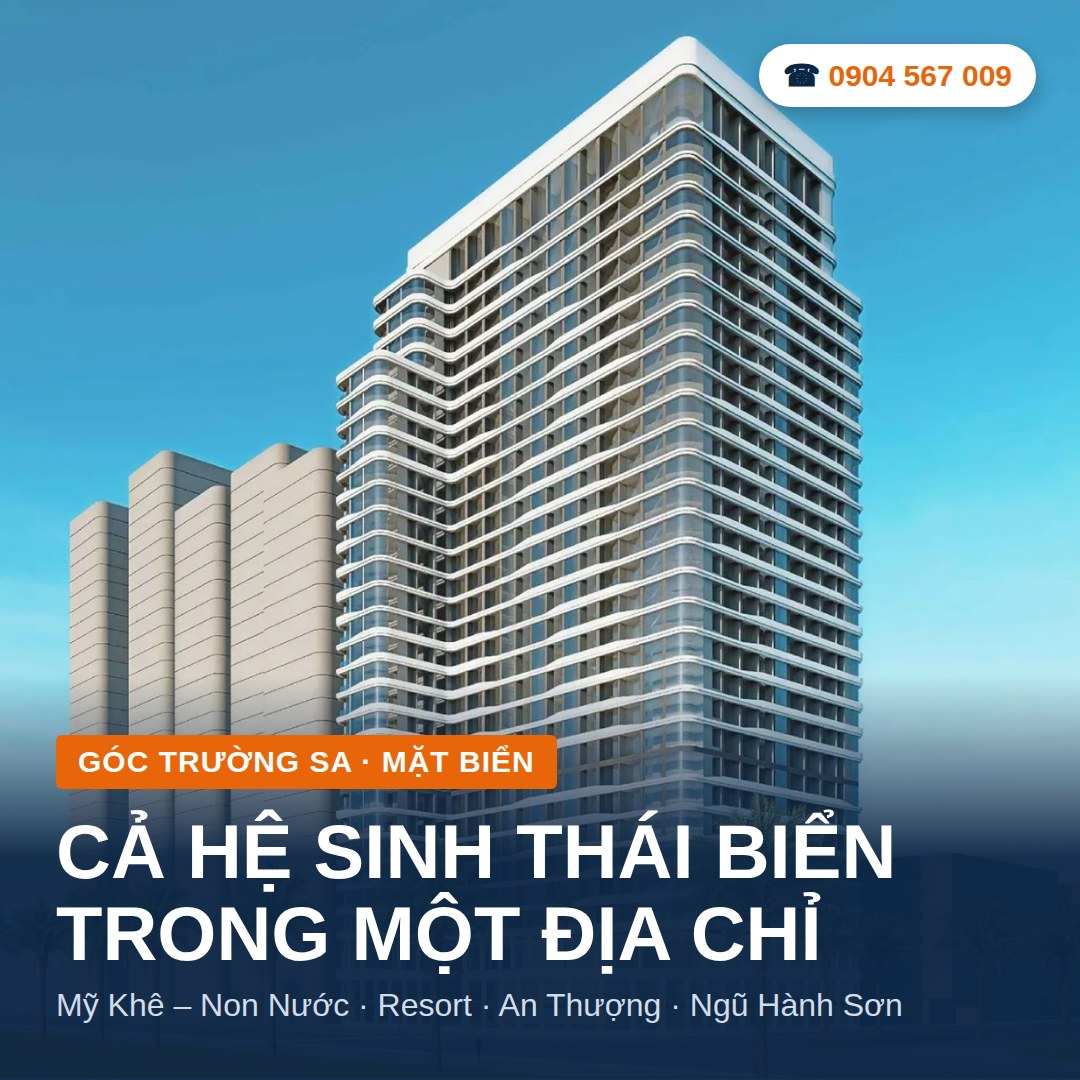
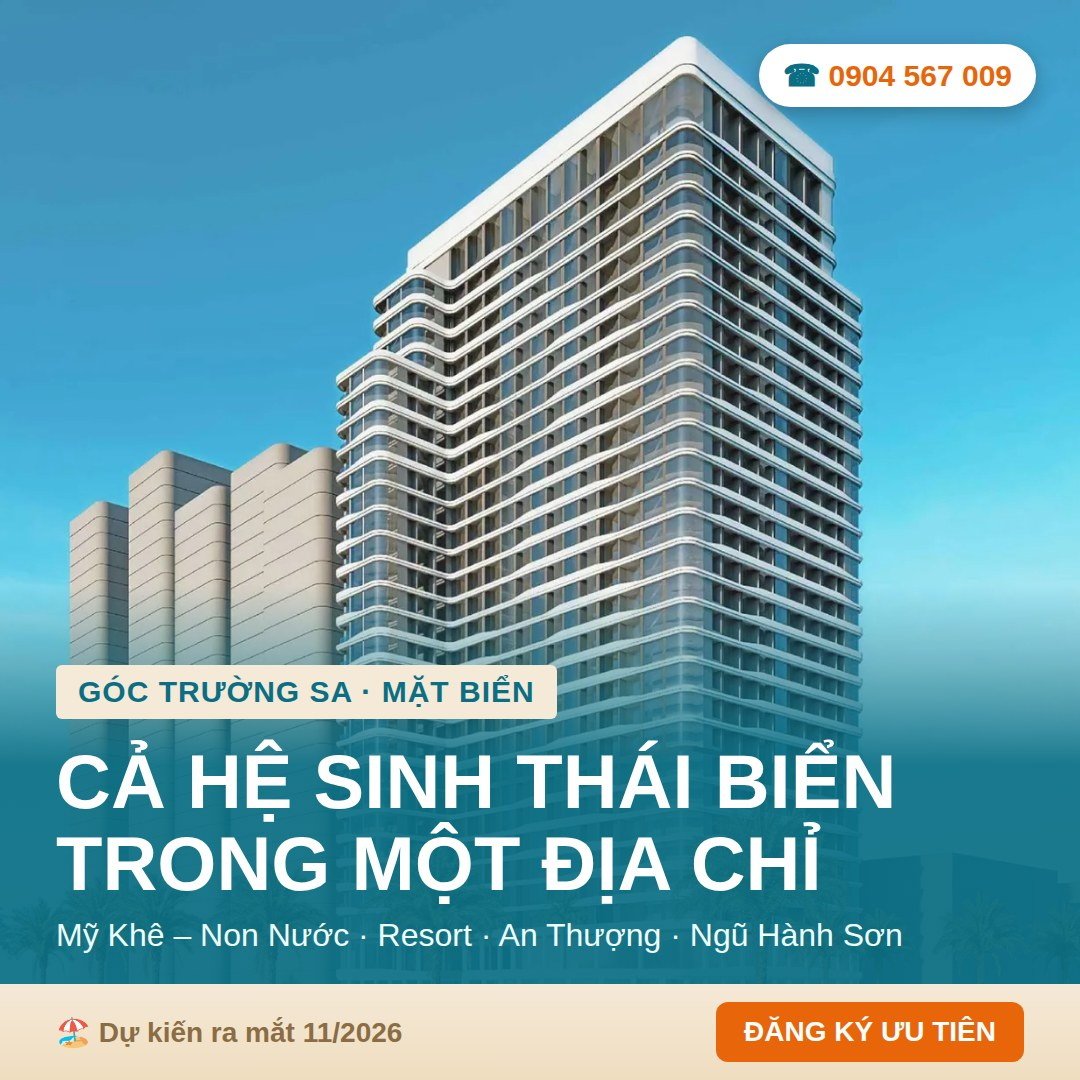
Apply sea-and-sand palette to Hai Minh ads page and creatives
Hero fades from turquoise sea to sand with the form on the sand band;
turquoise accents replace orange except on CTAs.

Claude-Session: https://claude.ai/code/session_01NC2CYpoTfJafqPT1uZGzKB

diff --git a/projects/hai-minh-da-nang/landing/ads-page.html b/projects/hai-minh-da-nang/landing/ads-page.html
@@ -9,38 +9,43 @@
 <link rel="canonical" href="https://www.xn--cnhdchvhiminh-prb1884ifsamh6h.com.vn/">
 <link href="https://fonts.googleapis.com/css2?family=Be+Vietnam+Pro:wght@400;600;700;800;900&display=swap" rel="stylesheet">
 <style>
-:root{--navy:#0B2545;--navy2:#13315C;--navy3:#071A33;--orange:#E8650A;--orange-d:#C9540A;--sun:#FFB547;--bg:#F4F6FA;--line:#DCE2EA;--text:#1F2D3D;--muted:#5B6878}
+:root{--navy:#0B2545;--navy2:#13315C;--navy3:#071A33;--orange:#E8650A;--orange-d:#C9540A;--sun:#FFB547;--sea:#1FB5C1;--sea-d:#0E8FA0;--sea-dd:#0A6F85;--sand:#F5E9D7;--sand2:#FBF6EE;--bg:#FBF6EE;--line:#DCE2EA;--text:#1F2D3D;--muted:#5B6878}
 *{box-sizing:border-box}
 body{margin:0;font-family:"Be Vietnam Pro",Arial,sans-serif;color:var(--text);background:#fff;font-size:16px;line-height:1.6}
 img{max-width:100%;height:auto;display:block}
 .wrap{max-width:1040px;margin:0 auto;padding:0 16px}
 h1,h2,h3{line-height:1.2;margin:0 0 12px}
 h2{font-size:34px;color:var(--navy);font-weight:900}
-h2 span{color:var(--orange)}
+h2 span{color:var(--sea-d)}
 p{margin:0 0 12px}
 .sec{padding:56px 0}
-.light{background:var(--bg)}
+.light{background:var(--sand2)}
 .center{text-align:center}
-.kicker{display:inline-block;font-size:13px;font-weight:800;letter-spacing:2px;color:var(--orange);text-transform:uppercase;margin-bottom:8px}
+.kicker{display:inline-block;font-size:13px;font-weight:800;letter-spacing:2px;color:var(--sea-d);text-transform:uppercase;margin-bottom:8px}
 .btn{display:inline-block;background:var(--orange);color:#fff;font-weight:900;font-size:18px;text-decoration:none;padding:17px 30px;border-radius:10px;border:0;cursor:pointer;font-family:inherit;box-shadow:0 8px 22px rgba(232,101,10,.38)}
 .btn:hover{background:var(--orange-d)}
 .btn-zalo{display:inline-block;background:#0068FF;color:#fff;font-weight:800;font-size:16px;text-decoration:none;padding:15px 24px;border-radius:10px}
 
 .hero-img img{width:100%}
 /* Urgency bar */
-.urgent{background:var(--orange);color:#fff;text-align:center;font-weight:800;font-size:15px;padding:10px 16px}
-.urgent a{color:#fff}
+.urgent{background:var(--navy);color:#fff;text-align:center;font-weight:800;font-size:15px;padding:10px 16px}
+.urgent a{color:var(--sun)}
 
 /* Hero */
-.hero{background:var(--navy);color:#fff;padding:36px 0 48px}
-.badge{display:inline-block;background:var(--sun);color:var(--navy);font-size:13px;font-weight:900;padding:6px 14px;border-radius:30px;letter-spacing:1px;margin-bottom:14px}
-.hero h1{font-size:60px;font-weight:900;color:#fff;letter-spacing:-1px;margin-bottom:10px}
-.hero h1 span{color:var(--orange)}
-.hero .sub{font-size:20px;color:#D3DCEA;max-width:820px}
+.hero{background:linear-gradient(180deg,#0A6F85 0%,#0E8FA0 22%,#1FB5C1 50%,#5CCFD5 72%,#BFEDEB 90%,#F5E9D7 100%);color:#fff;padding:40px 0 56px}
+.sea-pic{margin:26px 0 0;border-radius:18px;overflow:hidden;box-shadow:0 20px 44px rgba(10,111,133,.45);border:4px solid rgba(255,255,255,.85)}
+.sea-pic img{width:100%}
+.sand{background:linear-gradient(180deg,#F5E9D7 0%,#EFDDBF 100%);padding:6px 0 48px}
+.sand-note{text-align:center;color:#8A6D45;font-weight:700;font-size:14px;letter-spacing:1px;margin:0 0 14px}
+.badge{display:inline-block;background:rgba(255,255,255,.92);color:var(--sea-dd);font-size:13px;font-weight:900;padding:6px 14px;border-radius:30px;letter-spacing:1px;margin-bottom:14px}
+.hero h1{font-size:60px;font-weight:900;color:#fff;letter-spacing:-1px;margin-bottom:10px;text-shadow:0 2px 14px rgba(5,60,75,.35)}
+.hero h1 span{color:var(--sun)}
+.hero .sub{font-size:20px;color:#EFFFFF;max-width:820px}
 .checks{display:grid;grid-template-columns:1fr 1fr;gap:10px 24px;margin:20px 0 26px;max-width:820px}
 .checks div{font-size:16.5px;font-weight:600;color:#fff}
 .checks b{color:var(--sun)}
-.hero-form{background:#fff;border-radius:14px;padding:26px;color:var(--text);box-shadow:0 18px 40px rgba(0,0,0,.35);border-top:6px solid var(--orange)}
+.checks div{background:rgba(5,60,75,.28);border-radius:30px;padding:8px 16px}
+.hero-form{background:#fff;border-radius:14px;padding:26px;color:var(--text);box-shadow:0 18px 40px rgba(138,109,69,.28);border-top:6px solid var(--sea)}
 .hero-form h3{font-size:24px;color:var(--navy);font-weight:900;margin-bottom:4px}
 .hero-form .lead{color:var(--muted);margin-bottom:6px}
 .form-grid{display:grid;grid-template-columns:1fr 1fr 1fr;gap:6px 14px}
@@ -50,45 +55,45 @@ input,select{width:100%;font-family:inherit;font-size:16px;padding:14px;border:1
 .note{font-size:13px;color:var(--muted);margin-top:10px}
 
 /* Countdown */
-.cd-sec{background:var(--navy3);color:#fff;padding:34px 0;text-align:center}
+.cd-sec{background:linear-gradient(90deg,var(--sea-dd),var(--sea-d));color:#fff;padding:34px 0;text-align:center}
 .cd-sec h3{font-size:22px;color:#fff;font-weight:800}
-.cd-sec p{color:#AFC0D6;font-size:14px;margin:10px 0 0}
+.cd-sec p{color:#DFF7F7;font-size:14px;margin:10px 0 0}
 .dong-ho{display:flex;justify-content:center;gap:14px;margin-top:14px}
-.dong-ho .o{width:96px;background:var(--orange);border-radius:12px;padding:12px 0;text-align:center}
-.dong-ho .o span{display:block;font-size:40px;font-weight:900;color:#fff;line-height:1.1}
-.dong-ho .o i{display:block;font-style:normal;font-size:13px;font-weight:700;color:#FFE3CC}
+.dong-ho .o{width:96px;background:#fff;border-radius:12px;padding:12px 0;text-align:center}
+.dong-ho .o span{display:block;font-size:40px;font-weight:900;color:var(--navy);line-height:1.1}
+.dong-ho .o i{display:block;font-style:normal;font-size:13px;font-weight:700;color:var(--sea-d)}
 
 /* Value stack */
 .stack{display:grid;grid-template-columns:repeat(4,1fr);gap:16px;margin-top:22px}
-.gift{background:#fff;border:2px dashed var(--orange);border-radius:12px;padding:22px 16px;text-align:center}
+.gift{background:#fff;border:2px dashed var(--sea);border-radius:12px;padding:22px 16px;text-align:center}
 .gift .ic{font-size:38px;line-height:1}
 .gift b{display:block;font-size:17px;color:var(--navy);margin:10px 0 4px}
 .gift span{font-size:14px;color:var(--muted)}
 
 /* Ecosystem */
 .eco{display:grid;grid-template-columns:repeat(3,1fr);gap:16px;margin-top:22px}
-.tile{background:var(--navy);color:#C7D2E3;border-radius:14px;padding:24px}
+.tile{background:linear-gradient(160deg,var(--sea-d),var(--sea));color:#EFFFFF;border-radius:14px;padding:24px}
 .tile .ic{font-size:34px;line-height:1}
 .tile b{display:block;font-size:19px;color:#fff;margin:12px 0 6px}
 
 /* Day */
 .day{display:grid;grid-template-columns:repeat(4,1fr);gap:0;margin-top:22px;border-radius:14px;overflow:hidden}
 .day div{padding:22px 16px;text-align:center;color:#fff}
-.day div:nth-child(1){background:#F28C28}
-.day div:nth-child(2){background:#1B6CA8}
-.day div:nth-child(3){background:#13315C}
-.day div:nth-child(4){background:#C9540A}
+.day div:nth-child(1){background:#F4A259}
+.day div:nth-child(2){background:#1FB5C1}
+.day div:nth-child(3){background:#0E8FA0}
+.day div:nth-child(4){background:#E8650A}
 .day b{display:block;font-size:30px;font-weight:900}
 .day span{font-size:15px;font-weight:600}
 
 /* Project */
 .facts{display:grid;grid-template-columns:repeat(4,1fr);gap:14px;margin-top:20px}
-.facts div{background:#fff;border:1px solid var(--line);border-bottom:5px solid var(--orange);border-radius:12px;padding:20px 10px;text-align:center}
+.facts div{background:#fff;border:1px solid var(--line);border-bottom:5px solid var(--sea);border-radius:12px;padding:20px 10px;text-align:center}
 .facts b{display:block;font-size:30px;color:var(--navy);font-weight:900}
 .facts span{font-size:14px;color:var(--muted)}
 .pic{margin:20px 0 0;border-radius:14px;overflow:hidden}
 .pic figcaption{font-size:13px;color:var(--muted);padding:8px 2px}
-.legal{background:var(--navy);color:#E6ECF5;border-radius:12px;padding:20px 24px;margin-top:20px}
+.legal{background:var(--sea-dd);color:#E6ECF5;border-radius:12px;padding:20px 24px;margin-top:20px}
 .legal b{color:var(--sun)}
 
 /* Money */
@@ -97,25 +102,25 @@ input,select{width:100%;font-family:inherit;font-size:16px;padding:14px;border:1
 .mbox small{display:block;color:var(--muted);font-weight:700;text-transform:uppercase;letter-spacing:1px;font-size:12.5px}
 .mbox b{display:block;font-size:44px;font-weight:900;color:var(--orange);margin:6px 0}
 .mbox span{font-size:14.5px;color:var(--text)}
-.warn{font-size:13.5px;color:var(--muted);background:#FFF4EC;border-left:4px solid var(--orange);padding:12px 16px;border-radius:4px;margin-top:16px}
+.warn{font-size:13.5px;color:var(--muted);background:var(--sand);border-left:4px solid var(--sea-d);padding:12px 16px;border-radius:4px;margin-top:16px}
 
 /* Who */
 .who{display:grid;grid-template-columns:repeat(3,1fr);gap:16px;margin-top:20px}
-.who div{background:#fff;border:1px solid var(--line);border-left:6px solid var(--orange);border-radius:12px;padding:22px}
+.who div{background:#fff;border:1px solid var(--line);border-left:6px solid var(--sea);border-radius:12px;padding:22px}
 .who b{display:block;font-size:18px;color:var(--navy);margin-bottom:6px}
 
 /* Final */
-.final{background:var(--orange);padding:52px 0;color:#fff}
+.final{background:linear-gradient(180deg,var(--sea-d) 0%,var(--sea) 60%,#7FD9DC 100%);padding:52px 0;color:#fff}
 .final h2{color:#fff}
-.final h2 span{color:var(--navy)}
-.final p{color:#FFF1E6;font-size:17px}
+.final h2 span{color:var(--sun)}
+.final p{color:#EFFFFF;font-size:17px}
 .final-form{background:#fff;border-radius:14px;padding:26px;max-width:760px;margin:22px auto 0;color:var(--text);box-shadow:0 18px 40px rgba(0,0,0,.25)}
-.final-form .btn{background:var(--navy);box-shadow:none}
+.final-form .btn{background:var(--orange)}
 .final .final-form .note{color:var(--muted);font-size:14px}
 .final-form .note a{color:var(--orange-d);font-weight:700}
-.final-form .btn:hover{background:var(--navy2)}
+.final-form .btn:hover{background:var(--orange-d)}
 
-.faq details{background:#fff;border:1px solid var(--line);border-left:4px solid var(--orange);border-radius:8px;padding:15px 18px;margin-bottom:10px}
+.faq details{background:#fff;border:1px solid var(--line);border-left:4px solid var(--sea);border-radius:8px;padding:15px 18px;margin-bottom:10px}
 .faq summary{font-weight:800;color:var(--navy);cursor:pointer}
 .faq details p{margin:10px 0 0}
 
@@ -147,7 +152,7 @@ footer a{color:var(--orange);font-weight:700;text-decoration:none}
 /* Scenario table */
 table{width:100%;border-collapse:collapse;background:#fff;font-size:15.5px;margin-top:18px}
 th,td{border:1px solid var(--line);padding:11px 12px;text-align:center}
-th{background:var(--navy);color:#fff}
+th{background:var(--sea-d);color:#fff}
 td:first-child,th:first-child{text-align:left}
 .hl{color:var(--orange);font-weight:900}
 /* Rate */
@@ -157,7 +162,7 @@ td:first-child,th:first-child{text-align:left}
 .rbox b{display:block;font-size:32px;font-weight:900;color:var(--navy);margin:4px 0}
 .rbox.ok b{color:#1E8E3E}
 .rbox span{font-size:14px}
-.op{font-size:30px;font-weight:900;color:var(--orange);text-align:center}
+.op{font-size:30px;font-weight:900;color:var(--sea-d);text-align:center}
 .tips{display:grid;grid-template-columns:repeat(3,1fr);gap:14px;margin-top:20px}
 .tips div{background:var(--navy);color:#C7D2E3;border-radius:12px;padding:20px}
 .tips b{display:block;color:#fff;font-size:17px;margin-bottom:6px}
@@ -165,7 +170,7 @@ td:first-child,th:first-child{text-align:left}
 .now{display:grid;grid-template-columns:repeat(3,1fr);gap:16px;margin-top:22px}
 .now div{background:rgba(255,255,255,.08);border:1px solid rgba(255,255,255,.18);border-radius:12px;padding:22px;color:#D3DCEA}
 .now b{display:block;font-size:19px;color:#fff;margin-bottom:6px}
-.now .n{display:inline-block;width:38px;height:38px;border-radius:50%;background:var(--orange);color:#fff;font-weight:900;text-align:center;line-height:38px;margin-bottom:10px}
+.now .n{display:inline-block;width:38px;height:38px;border-radius:50%;background:var(--sea);color:#fff;font-weight:900;text-align:center;line-height:38px;margin-bottom:10px}
 .dark{background:var(--navy);color:#E6ECF5}
 .dark h2{color:#fff}
 
@@ -196,13 +201,8 @@ td:first-child,th:first-child{text-align:left}
 <div class="urgent">🔥 Dự kiến ra mắt tháng 11/2026 – căn view biển trực diện có hạn · <a href="tel:0904567009">Gọi 0904 567 009</a></div>
 
 <main>
-<!-- HERO IMAGE -->
-<section class="hero-img">
-  <img src="https://raw.githubusercontent.com/hiephoangmt-debug/hoang-hiep-crm/7301d9b5e31410fb79120292dce0e58c4d82d7d9/projects/hai-minh-da-nang/landing/images/phoi-canh-can-ho-dich-vu-hai-minh-mat-bien-vo-nguyen-giap.webp" alt="Phối cảnh căn hộ dịch vụ Hải Minh mặt biển Võ Nguyên Giáp, Đà Nẵng" width="1195" height="640">
-</section>
-
 <!-- HERO -->
-<section class="hero" id="dang-ky">
+<section class="hero">
   <div class="wrap">
     <span class="badge">🌊 CĂN HỘ DỊCH VỤ HẢI MINH ĐÀ NẴNG</span>
     <h1>Mở mắt là <span>thấy biển.</span><br>Bước ra là resort.</h1>
@@ -213,6 +213,14 @@ td:first-child,th:first-child{text-align:left}
       <div>✅ Vừa <b>nghỉ dưỡng</b>, vừa <b>cho thuê</b> theo đêm</div>
       <div>✅ Đất TMDV <b>50 năm</b> (9/2026 – 9/2076)</div>
     </div>
+    <figure class="sea-pic"><img src="https://raw.githubusercontent.com/hiephoangmt-debug/hoang-hiep-crm/7301d9b5e31410fb79120292dce0e58c4d82d7d9/projects/hai-minh-da-nang/landing/images/phoi-canh-can-ho-dich-vu-hai-minh-mat-bien-vo-nguyen-giap.webp" alt="Phối cảnh căn hộ dịch vụ Hải Minh mặt biển Võ Nguyên Giáp, Đà Nẵng" width="1195" height="640"></figure>
+  </div>
+</section>
+
+<!-- SAND / FORM -->
+<section class="sand" id="dang-ky">
+  <div class="wrap">
+    <p class="sand-note">🏖 ĐẶT CHÂN LÊN CÁT – GIỮ SUẤT ƯU TIÊN CỦA BẠN</p>
     <div class="hero-form">
       <h3>Đăng ký ưu tiên – nhận bảng giá trước ngày ra mắt</h3>
       <p class="lead">Khách đăng ký sớm được ưu tiên chọn tầng cao, view biển trực diện.</p>
